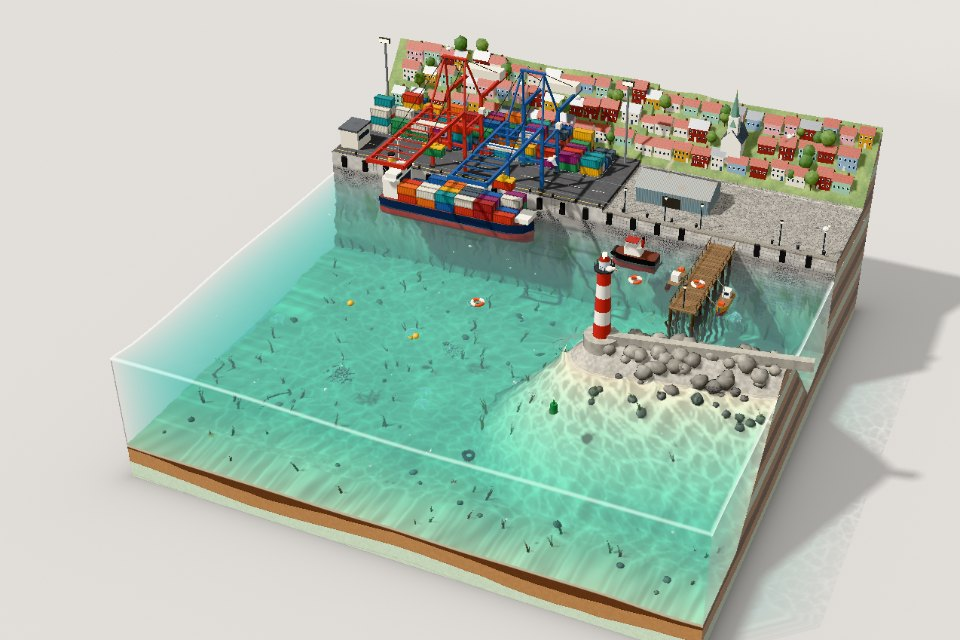
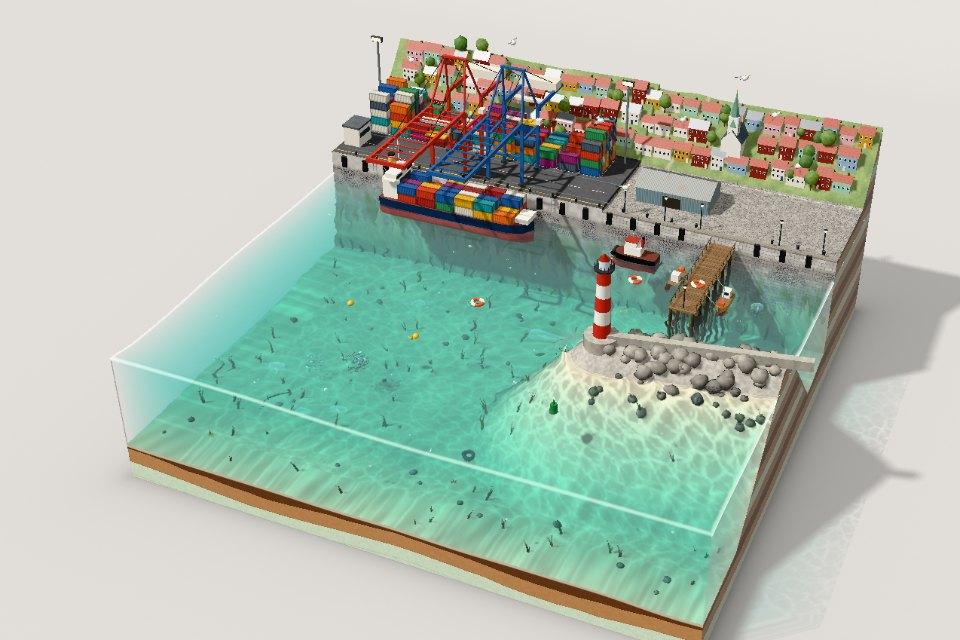
Harbor Jelly: hundreds of containers, lamp inside the lantern, layout fixes
- Still-life yard columns stack higher: 212 containers (was 175); spreader
  clearance over every stack is now tested.
- The lighthouse's rotating optic sat inside the red cap; move it into the
  glass lantern.
- Light tower and office no longer overlap yard stacks or the rail.
- Cap device pixel ratio at 1.5 to keep laptops smooth; calmer swell under
  prefers-reduced-motion.

Claude-Session: https://claude.ai/code/session_01Bo3CDw9zRWVrb2MRuHqjxs

diff --git a/harbor-jelly/index.html b/harbor-jelly/index.html
@@ -270,8 +270,8 @@ function makeLayout(seed = 7) {
   for (const t of trees) t.y = groundH(t.x, t.z);
   for (const x of [0.55, 0.95, 1.3, 2.05, 2.45]) lamps.push({ x, z: -1.12, y: HB.fishY, h: 0.26 });
   lamps.push({ x: 1.55, z: 0.11, y: HB.pier.y, h: 0.22 });
-  const towers = [{ x: -2.45, z: -2.0, h: 0.85 }, { x: 0.22, z: -2.02, h: 0.85 }];
-  const office = { x: -2.46, z: -1.3, w: 0.2, d: 0.26, h: 0.2 };
+  const towers = [{ x: -2.54, z: -2.0, h: 0.85 }, { x: 0.22, z: -2.02, h: 0.85 }];
+  const office = { x: -2.47, z: -1.36, w: 0.18, d: 0.24, h: 0.2 };
   const shed = { x: 0.92, z: -1.6, w: 0.72, d: 0.4, h: 0.16, roof: 0.1 };
   buildings.push(office, shed, { x: church.x, z: church.z, w: church.w, d: church.d, h: church.h });
   for (const h of houses) buildings.push(h);
@@ -481,7 +481,7 @@ class Harbor {
     this.boxes = []; this.yard = []; this.shipStacks = [];
     const box = (state) => { const b = { id: this.boxes.length, livery: (R() * LIVERIES.length) | 0, ...state }; this.boxes.push(b); return b.id; };
     for (let c = 0; c < Y.cols; c++) for (let r = 0; r < Y.rows; r++) {
-      const work = [2, 3, 4, 7, 8, 9].includes(c), n = work ? 1 + ((R() * 3) | 0) : 1 + ((R() * 4) | 0);
+      const work = [2, 3, 4, 7, 8, 9].includes(c), outer = [0, 1, 10].includes(c), n = work ? 1 + ((R() * 3) | 0) : outer ? 4 + ((R() * 2) | 0) : 3 + ((R() * 2) | 0);
       const st = []; for (let t = 0; t < n; t++) st.push(box({ at: 'yard' })); this.yard.push(st);
     }
     for (let b = 0; b < S.bays; b++) for (let r = 0; r < S.rows; r++) { const st = []; for (let t = 0; t < S.tiers; t++) st.push(box({ at: 'ship' })); this.shipStacks.push(st); }
@@ -736,7 +736,7 @@ class Harbor {
     const T = this.tug, tq = quatYPR(T.pose.yaw, T.pitch || 0, T.roll || 0);
     set(OBJ.tug, [T.pose.x, T.y || this.level, T.pose.z], tq);
     set(OBJ.tugProp, toWorld(O[OBJ.tug], [-0.2, -0.05, 0]), qmul(tq, qaxis([1, 0, 0], T.prop)));
-    set(OBJ.lamp, [HB.light[0], 0.98, HB.light[1]], qaxis([0, 1, 0], this.t * 0.9));
+    set(OBJ.lamp, [HB.light[0], 0.91, HB.light[1]], qaxis([0, 1, 0], this.t * 0.9));
     this.cranes.forEach((cr, k) => {
       const base = k ? OBJ.craneB : OBJ.craneA, C = HB.crane;
       set(base, [cr.x, HB.deckY, 0], [0, 0, 0, 1]);
@@ -2235,6 +2235,7 @@ async function main() {
 
   // ── settings ──
   let flavour = 'seaglass', firm = 0.5, tideCm = 0, paused = false;
+  if (reduced) H.swellAmp = 0.4; // calmer sea for reduced motion
   const bgLin = invNeutral(srgbLin('#E2DFDA'));
 
   // ── camera ──
@@ -2269,7 +2270,7 @@ async function main() {
   const L = V3.norm([-0.4655, 0.7758, 0.4255]);
   const lightVP = M4.mul(M4.ortho(-4.6, 4.6, -4.6, 4.6, 2, 30), M4.lookAt(V3.add([0, -0.2, 0], V3.scale(L, 15)), [0, -0.2, 0], [0, 1, 0]));
   function resize() {
-    const r = canvas.getBoundingClientRect(), dpr = Math.min(window.devicePixelRatio || 1, 2);
+    const r = canvas.getBoundingClientRect(), dpr = Math.min(window.devicePixelRatio || 1, 1.5);
     const w = Math.max(2, Math.round(r.width * dpr)), h = Math.max(2, Math.round(r.height * dpr));
     canvas.width = w; canvas.height = h; R.resize(w, h); layout();
   }
@@ -2425,7 +2426,7 @@ async function main() {
   $('damp').addEventListener('input', e => { H.sea.damping = +e.target.value; $('dampOut').textContent = (+e.target.value).toFixed(2); });
   $('tide').addEventListener('input', e => { tideCm = +e.target.value; $('tideOut').textContent = (tideCm > 0 ? '+' : tideCm < 0 ? '−' : '') + Math.abs(tideCm) + ' cm'; });
   function setPaused(p) { paused = p; $('pause').textContent = p ? 'Resume' : 'Pause'; setStatus(p ? 'WebGPU · Paused' : 'WebGPU · Live', p ? 'paused' : 'live'); }
-  function reset() { const damp = H.sea.damping; H = new Harbor(); H.sea.damping = damp; Object.assign(tilt, { x: 0, z: 0, vx: 0, vz: 0, drag: null }); Object.assign(wob, { x: 0, z: 0, s: 0, vx: 0, vz: 0, vs: 0, quiver: 0 }); puffs.length = 0; drag = null; wave = null; held = null; refresh(true); }
+  function reset() { const damp = H.sea.damping; H = new Harbor(); H.sea.damping = damp; if (reduced) H.swellAmp = 0.4; Object.assign(tilt, { x: 0, z: 0, vx: 0, vz: 0, drag: null }); Object.assign(wob, { x: 0, z: 0, s: 0, vx: 0, vz: 0, vs: 0, quiver: 0 }); puffs.length = 0; drag = null; wave = null; held = null; refresh(true); }
   function castOrCall() { Sound.wake(); if (H.canCastOff()) H.castOff(); else if (H.canCallIn()) H.callIn(); refresh(true); }
   function horn() { Sound.wake(); H.horn(); }
   function feed() { H.feed(); refresh(true); }
